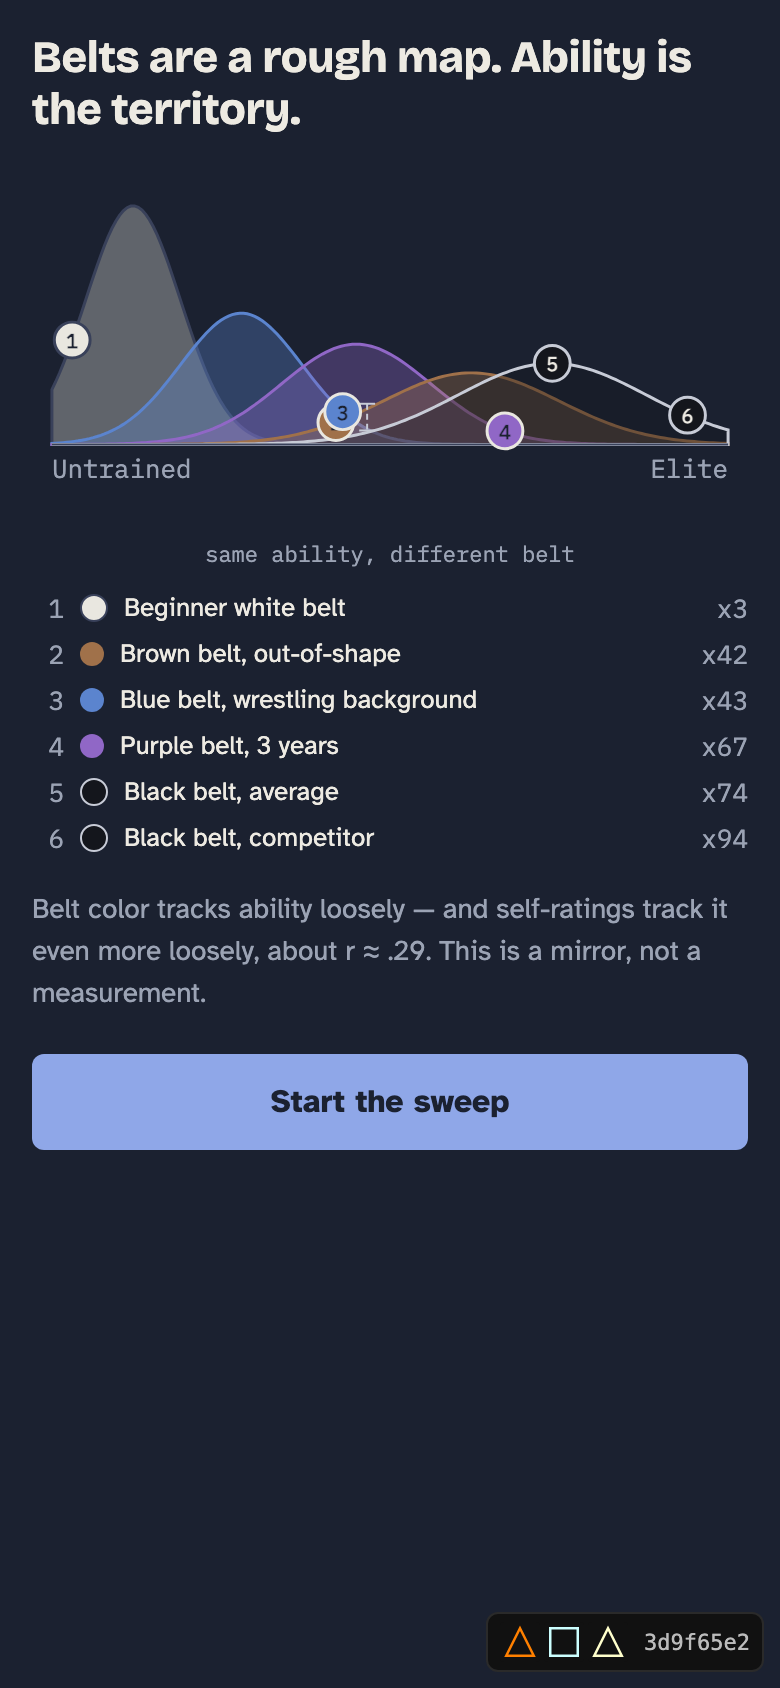
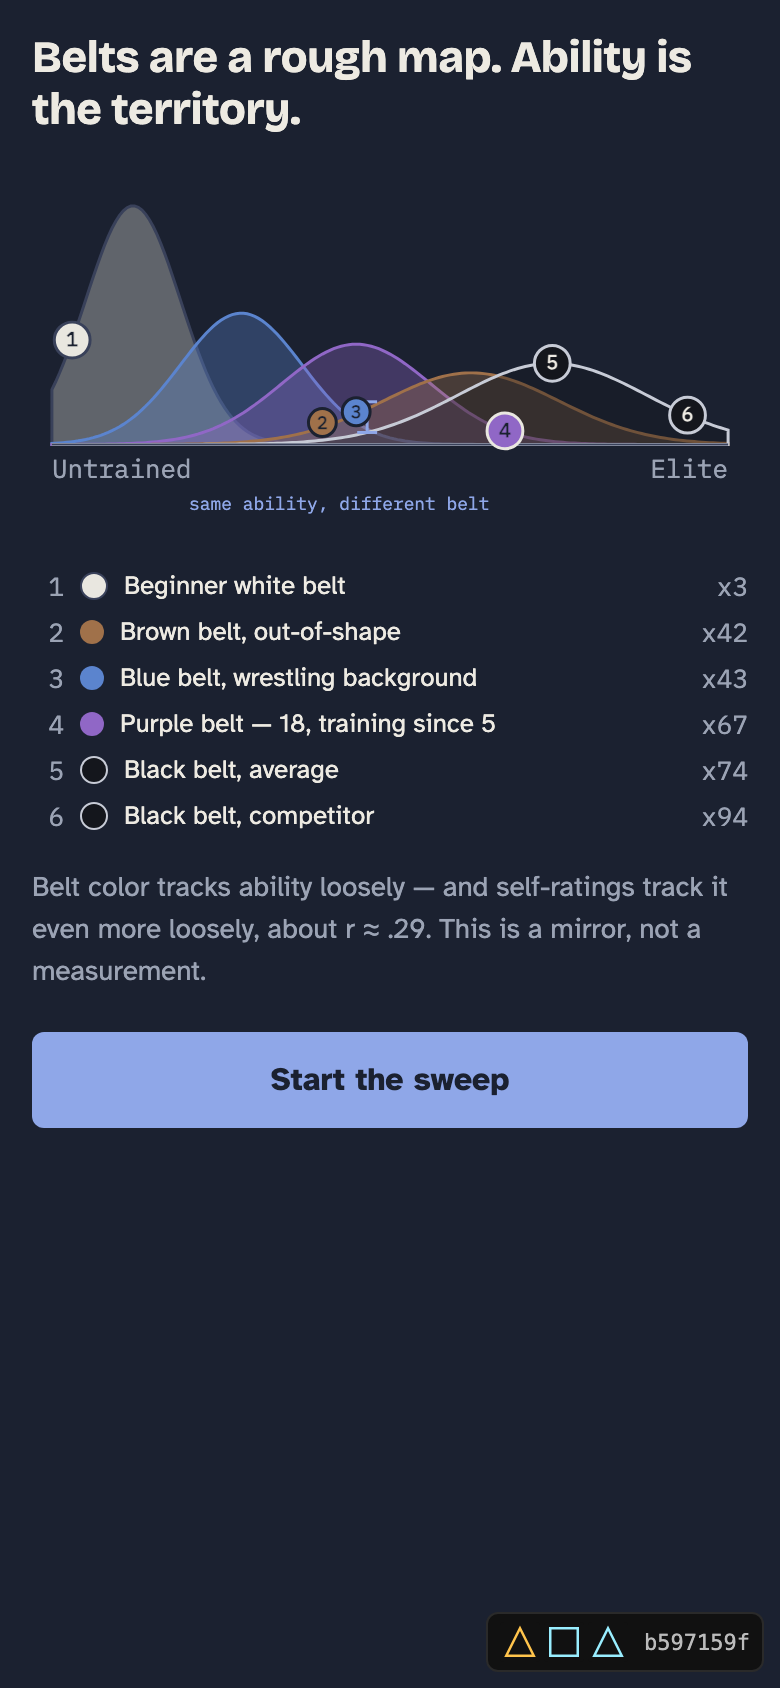
fix(visual-landing): whole-branch review fixes — dot label, hooks, overlap, bust.sh
Fix 1: dot n=4 label corrected to "Purple belt — 18, training since 5" (was "3 years").
  Test name in introDots.test.ts updated to match.

Fix 2: usePrefersReducedMotion restructured — useState/useEffect now called
  unconditionally; matchMedia guard moved inside the effect. Resolves two
  rules-of-hooks oxlint errors. jsdom (no matchMedia) defaults to reduced=true,
  rendering final state immediately.

Fix 3: overlap pair (dots 2 & 3) made visible and legible:
  - Both pips individually readable: r=7 (vs 9), --mat outline, ±2 x-unit nudge.
  - Bracket: solid 1.5px --accent connector with ticks (replaces faint dashed stub).
  - Micro-label "same ability, different belt" moved INTO SVG, anchored at bracket
    x-midpoint in a dedicated row (MICRO_LABEL_Y=171) below the axis-endpoint labels.
    Always in DOM; opacity-only animation prevents layout shift.
  - SVG viewBox height extended to 185 to accommodate micro-label row.

Fix 4: bust.sh help text updated to describe git-SHA derivation (was "fresh 32-bit
  hex token").

278/278 tests pass, build clean, lint 0 errors. Screenshot recaptured.

diff --git a/src/components/IntroLanding.tsx b/src/components/IntroLanding.tsx
@@ -22,14 +22,22 @@ import '../styles/tokens.css'
 
 // ── SVG geometry ─────────────────────────────────────────────────────────────
 // Kept intentionally identical to BellCurveAxis so curves look the same.
-const VIEW_W   = 360
-const VIEW_H   = 170
-const PLOT_X0  = 10
-const PLOT_X1  = 350
-const PLOT_W   = PLOT_X1 - PLOT_X0   // 340
-const PLOT_H   = 120
-const AXIS_Y   = 138
-const LABEL_Y  = 155
+const VIEW_W        = 360
+const VIEW_H        = 185   // +15 for micro-label row below the axis-endpoint labels
+const PLOT_X0       = 10
+const PLOT_X1       = 350
+const PLOT_W        = PLOT_X1 - PLOT_X0   // 340
+const PLOT_H        = 120
+const AXIS_Y        = 138
+const LABEL_Y       = 155
+const MICRO_LABEL_Y = 171   // row below LABEL_Y for the overlap annotation
+
+// ── Overlap pair rendering constants ─────────────────────────────────────────
+// Dots 2 and 3 sit at x=42 and x=43 — near-coincident. Small horizontal nudges
+// (≤3 x-units) keep them at their honest positions while ensuring both are
+// individually visible. Smaller pip radius so pips don't swallow each other.
+const OVERLAP_PIP_R = 7           // radius for the overlap-pair dots (vs 9 for others)
+const OVERLAP_NUDGE = 2           // x-units each dot moves away from the midpoint
 
 // Belt render order (same as BellCurveAxis — white on bottom, black on top)
 const BELT_ORDER = ['white', 'blue', 'purple', 'brown', 'black'] as const
@@ -92,16 +100,17 @@ function dotSvgY(dot: IntroDot): number {
 // ── Reduced motion hook ──────────────────────────────────────────────────────
 
 function usePrefersReducedMotion(): boolean {
-  // If matchMedia is not available (jsdom, old environments) → treat as reduced.
-  if (typeof window === 'undefined' || !window.matchMedia) return true
-  const mq = window.matchMedia('(prefers-reduced-motion: reduce)')
-  // Stateful so it reacts to OS changes mid-session.
-  const [reduced, setReduced] = useState(mq.matches)
+  // Default true: no-matchMedia environments (jsdom, SSR) render final state immediately.
+  const [reduced, setReduced] = useState(true)
   useEffect(() => {
+    // Guard inside the effect — hooks are always called unconditionally.
+    if (typeof window.matchMedia !== 'function') return
+    const mq = window.matchMedia('(prefers-reduced-motion: reduce)')
+    setReduced(mq.matches)
     const handler = (e: MediaQueryListEvent) => setReduced(e.matches)
     mq.addEventListener('change', handler)
     return () => mq.removeEventListener('change', handler)
-  }, []) // eslint-disable-line react-hooks/exhaustive-deps
+  }, [])
   return reduced
 }
 
@@ -234,44 +243,66 @@ export function IntroLanding({ onStart }: IntroLandingProps) {
           Elite
         </text>
 
-        {/* Overlap bracket — faint vertical bracket linking dots 2 and 3 */}
-        {bracketVisible && (
-          <g style={{ transition: reduced ? 'none' : 'opacity 0.3s ease-in' }}>
-            {/* Vertical line */}
-            <line
-              x1={overlapX + 14} y1={bracketTop - 4}
-              x2={overlapX + 14} y2={bracketBottom + 4}
-              stroke="var(--line-strong)"
-              strokeWidth={1}
-              strokeDasharray="3 2"
-            />
-            {/* Top tick */}
-            <line
-              x1={overlapX + 10} y1={bracketTop - 4}
-              x2={overlapX + 18} y2={bracketTop - 4}
-              stroke="var(--line-strong)"
-              strokeWidth={1}
-            />
-            {/* Bottom tick */}
-            <line
-              x1={overlapX + 10} y1={bracketBottom + 4}
-              x2={overlapX + 18} y2={bracketBottom + 4}
-              stroke="var(--line-strong)"
-              strokeWidth={1}
-            />
-          </g>
-        )}
+        {/* Overlap bracket — clear connector linking dots 2 and 3.
+            Always in DOM; opacity-only animation prevents layout shift. */}
+        <g
+          data-intro-bracket
+          style={{
+            opacity: bracketVisible ? 1 : 0,
+            transition: reduced ? 'none' : 'opacity 0.3s ease-in',
+          }}
+        >
+          {/* Vertical connector — solid 1.5px in --accent, to the right of dots */}
+          <line
+            x1={overlapX + 14} y1={bracketTop - 5}
+            x2={overlapX + 14} y2={bracketBottom + 5}
+            stroke="var(--accent)"
+            strokeWidth={1.5}
+          />
+          {/* Top tick */}
+          <line
+            x1={overlapX + 9}  y1={bracketTop - 5}
+            x2={overlapX + 19} y2={bracketTop - 5}
+            stroke="var(--accent)"
+            strokeWidth={1.5}
+          />
+          {/* Bottom tick */}
+          <line
+            x1={overlapX + 9}  y1={bracketBottom + 5}
+            x2={overlapX + 19} y2={bracketBottom + 5}
+            stroke="var(--accent)"
+            strokeWidth={1.5}
+          />
+          {/* Micro-label — centered in its own row below "Untrained / Elite".
+              Anchored to the overlap x so it reads as pointing at the bracket. */}
+          <text
+            x={overlapX}
+            y={MICRO_LABEL_Y}
+            fontFamily="var(--font-mono)"
+            fontSize={9}
+            fill="var(--accent)"
+            textAnchor="middle"
+          >
+            same ability, different belt
+          </text>
+        </g>
 
         {/* Numbered dots — each belt-colored pip with Plex Mono number */}
         {INTRO_DOTS.map((dot, i) => {
-          const cx = axisToSvgX(dot.x)
+          // Overlap pair (n=2 and n=3): nudge apart so both pips are individually visible.
+          const isOverlap = dot.n === 2 || dot.n === 3
+          const nudgeDir  = dot.n === 2 ? -1 : dot.n === 3 ? 1 : 0
+          const cx = axisToSvgX(dot.x) + nudgeDir * (OVERLAP_NUDGE / 100) * PLOT_W
           const cy = dotSvgY(dot)
           const visible = i < dotsVisible
           const belt = dot.belt as BeltName
+          const pipR = isOverlap ? OVERLAP_PIP_R : 9
 
-          // Dot stroke: both-extremes rule
-          const dotStroke =
-            belt === 'white' ? 'var(--line)'
+          // Dot stroke: overlap pair gets a clear 1px --mat outline so a partly-
+          // overlapping back pip still reads; others use the both-extremes rule.
+          const dotStroke = isOverlap
+            ? 'var(--mat)'
+            : belt === 'white' ? 'var(--line)'
             : belt === 'black' ? 'var(--line-strong)'
             : 'var(--belt-white)'
 
@@ -289,7 +320,7 @@ export function IntroLanding({ onStart }: IntroLandingProps) {
               <circle
                 cx={cx}
                 cy={cy}
-                r={9}
+                r={pipR}
                 fill={BELT_FILL[belt]}
                 stroke={dotStroke}
                 strokeWidth={1.5}
@@ -297,9 +328,9 @@ export function IntroLanding({ onStart }: IntroLandingProps) {
               {/* Number label */}
               <text
                 x={cx}
-                y={cy + 4}
+                y={cy + 3}
                 fontFamily="var(--font-mono)"
-                fontSize={10}
+                fontSize={isOverlap ? 9 : 10}
                 fontWeight={600}
                 fill={belt === 'white' ? 'var(--mat)' : belt === 'black' ? 'var(--ink)' : 'var(--mat)'}
                 textAnchor="middle"
@@ -310,21 +341,6 @@ export function IntroLanding({ onStart }: IntroLandingProps) {
           )
         })}
       </svg>
-
-      {/* Overlap micro-label (below chart, above legend) */}
-      {bracketVisible && (
-        <p
-          className="mono"
-          style={{
-            fontSize: 11,
-            color: 'var(--ink-2)',
-            margin: '0 0 12px',
-            textAlign: 'center',
-          }}
-        >
-          same ability, different belt
-        </p>
-      )}
 
       {/* ── Ability-ordered legend ── */}
       <ol

diff --git a/index.html b/index.html
@@ -7,9 +7,9 @@
   <meta http-equiv="Cache-Control" content="no-cache, no-store, must-revalidate">
   <meta http-equiv="Pragma" content="no-cache">
   <meta http-equiv="Expires" content="0">
-  <meta name="cb" content="4110c3bd">
-  <link rel="icon" type="image/svg+xml" href="/cb-shapes/01.svg?v=4110c3bd">
-  <script src="/cb-badge.js?v=4110c3bd" defer></script>
+  <meta name="cb" content="b597159f">
+  <link rel="icon" type="image/svg+xml" href="/cb-shapes/53.svg?v=b597159f">
+  <script src="/cb-badge.js?v=b597159f" defer></script>
   </head>
   <body>
     <div id="root"></div>

diff --git a/src/components/IntroLanding.test.tsx b/src/components/IntroLanding.test.tsx
@@ -48,8 +48,9 @@ describe('IntroLanding', () => {
     expect(brownIdx).toBeLessThan(blueIdx)
   })
 
-  it('renders the overlap micro-label', () => {
+  it('renders the overlap micro-label in the SVG at the bracket', () => {
     render(<IntroLanding onStart={() => {}} />)
+    // Micro-label is a single SVG text element anchored to the bracket midpoint.
     expect(screen.getByText('same ability, different belt')).toBeInTheDocument()
   })
 

diff --git a/src/lib/introDots.test.ts b/src/lib/introDots.test.ts
@@ -51,7 +51,7 @@ describe('dotY', () => {
     expect(Math.abs(dotY(dot) - 0.142)).toBeLessThan(tolerance)
   })
 
-  it('purple 3-years (x=67) height ≈ 0.057', () => {
+  it('purple age-18 training-since-5 (x=67) height ≈ 0.057', () => {
     const dot = INTRO_DOTS.find(d => d.n === 4)!
     expect(Math.abs(dotY(dot) - 0.057)).toBeLessThan(tolerance)
   })

diff --git a/src/lib/introDots.ts b/src/lib/introDots.ts
@@ -60,7 +60,7 @@ export const INTRO_DOTS: IntroDot[] = [
   { n: 1, belt: 'white',  x: 3,  label: 'Beginner white belt'           },
   { n: 2, belt: 'brown',  x: 42, label: 'Brown belt, out-of-shape'      },
   { n: 3, belt: 'blue',   x: 43, label: 'Blue belt, wrestling background'},
-  { n: 4, belt: 'purple', x: 67, label: 'Purple belt, 3 years'          },
+  { n: 4, belt: 'purple', x: 67, label: 'Purple belt — 18, training since 5' },
   { n: 5, belt: 'black',  x: 74, label: 'Black belt, average'           },
   { n: 6, belt: 'black',  x: 94, label: 'Black belt, competitor'        },
 ]